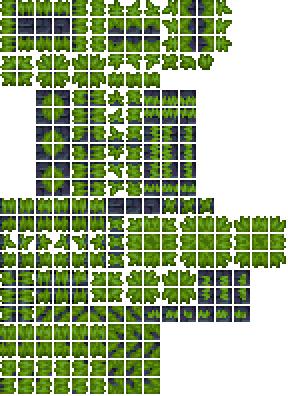
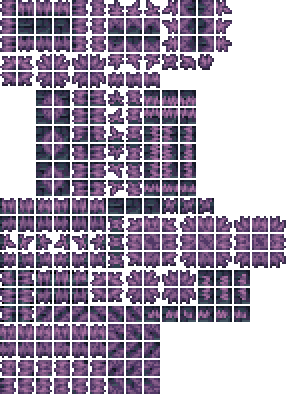
sanctuary grass

diff --git a/Items/Invidia/OvergrownEvostoneBrick.cs b/Items/Invidia/OvergrownEvostoneBrick.cs
@@ -3,6 +3,12 @@ using Terraria.ID;
 using Terraria.ModLoader;
 using Microsoft.Xna.Framework;
 using SOTS.Items.Invidia;
+using Terraria.ObjectData;
+using Terraria.DataStructures;
+using Terraria.Enums;
+using Microsoft.Xna.Framework.Graphics;
+using Terraria.Utilities;
+using SOTS.Dusts;
 
 namespace SOTS.Items.Invidia
 {
@@ -15,8 +21,9 @@ namespace SOTS.Items.Invidia
 		public override void SetDefaults()
         {
             Item.CloneDefaults(ItemID.StoneBlock);
-            Item.rare = ItemRarityID.Green;
+            Item.rare = ItemRarityID.LightPurple;
 			Item.createTile = ModContent.TileType<OvergrownEvostoneBrickTile>();
+			Item.height += 2;
 		}
 	}
 	public class OvergrownEvostoneBrickTile : ModTile
@@ -30,63 +37,63 @@ namespace SOTS.Items.Invidia
 			Main.tileMergeDirt[Type] = false;
 			Main.tileBlockLight[Type] = true;
 			Main.tileLighted[Type] = true;
-			AddMapEntry(new Color(91, 153, 59));
+			AddMapEntry(new Color(112, 82, 122));
 			MineResist = 1.5f;
-			HitSound = SoundID.Tink;
-			DustType = DustID.Grass;
+            HitSound = SoundID.Tink;
+			DustType = ModContent.DustType<InvidiaGrassDust>();
+        }
+		public override void RandomUpdate(int i, int j)
+		{
+			if (!Main.rand.NextBool(5))
+				if (!Main.tile[i, j - 1].HasTile)
+				{
+					Tile tile = Main.tile[i, j - 1];
+					WorldGen.PlaceTile(i, j - 1, ModContent.TileType<OvergrowthGrass>(), true, false, -1, Main.rand.Next(12));
+					tile.TileColor = Main.tile[i, j].TileColor;
+					NetMessage.SendTileSquare(-1, i, j - 1, 3, TileChangeType.None);
+				}
+				else if (Main.rand.NextBool(8))
+					GrowCurseVine(i, j);
+			base.RandomUpdate(i, j);
 		}
-		//public override void RandomUpdate(int i, int j)
-		//{
-		//	if (!Main.rand.NextBool(8))
-		//		if (!Main.tile[i, j - 1].HasTile)
-		//		{
-		//			Tile tile = Main.tile[i, j - 1];
-		//			WorldGen.PlaceTile(i, j - 1, ModContent.TileType<CursedGrass>(), true, false, -1, Main.rand.Next(12));
-		//			tile.TileColor = Main.tile[i, j].TileColor;
-		//			NetMessage.SendTileSquare(-1, i, j - 1, 3, TileChangeType.None);
-		//		}
-		//		else if (Main.rand.NextBool(8))
-		//			GrowCurseVine(i, j);
-		//	base.RandomUpdate(i, j);
-		//}
-		//public static void GrowCurseVine(int i, int j)
-		//{
-		//	if (!Main.tile[i, j + 1].HasTile && Main.tile[i, j+1].LiquidAmount == 0)
-		//	{
-		//		var flag9 = false;
-		//		for (var VineY = j; VineY > j - 10; VineY--)
-		//		{
-		//			if (Main.tile[i, VineY].BottomSlope)
-		//			{
-		//				flag9 = false;
-		//				break;
-		//			}
-		//			if (Main.tile[i, VineY].HasTile && !Main.tile[i, VineY].BottomSlope)
-		//			{
-		//				flag9 = true;
-		//				break;
-		//			}
-		//		}
+		public static void GrowCurseVine(int i, int j)
+		{
+			if (!Main.tile[i, j + 1].HasTile && Main.tile[i, j + 1].LiquidAmount == 0)
+			{
+				var flag9 = false;
+				for (var VineY = j; VineY > j - 10; VineY--)
+				{
+					if (Main.tile[i, VineY].BottomSlope)
+					{
+						flag9 = false;
+						break;
+					}
+					if (Main.tile[i, VineY].HasTile && !Main.tile[i, VineY].BottomSlope)
+					{
+						flag9 = true;
+						break;
+					}
+				}
 
-		//		if (flag9)
-		//		{
-		//			var num47 = i;
-		//			var num48 = j + 1;
-		//			if(Main.tile[num47, num48].LiquidAmount == 0)
-		//			{
-		//				Tile tile = Main.tile[num47, num48];
-		//				tile.TileType = (ushort)ModContent.TileType<CursedVine>();
-		//				tile.HasTile = true;
-		//				tile.TileColor = Main.tile[i, j].TileColor;
-		//				WorldGen.SquareTileFrame(num47, num48, true);
-		//				if (Main.netMode == NetmodeID.Server)
-		//				{
-		//					NetMessage.SendTileSquare(-1, num47, num48, 3, TileChangeType.None);
-		//				}
-		//			}
-		//		}
-		//	}
-		//}
+				if (flag9)
+				{
+					var num47 = i;
+					var num48 = j + 1;
+					if (Main.tile[num47, num48].LiquidAmount == 0)
+					{
+						Tile tile = Main.tile[num47, num48];
+						tile.TileType = (ushort)ModContent.TileType<OvergrowthVine>();
+						tile.HasTile = true;
+						tile.TileColor = Main.tile[i, j].TileColor;
+						WorldGen.SquareTileFrame(num47, num48, true);
+						if (Main.netMode == NetmodeID.Server)
+						{
+							NetMessage.SendTileSquare(-1, num47, num48, 3, TileChangeType.None);
+						}
+					}
+				}
+			}
+		}
 		public override bool CanExplode(int i, int j)
 		{
 			return true;
@@ -96,73 +103,127 @@ namespace SOTS.Items.Invidia
 			return true;
 		}
 	}
-	//public class CursedGrass : ModTile
-	//{
-	//	public override void SetStaticDefaults()
-	//	{
-	//		Main.tileFrameImportant[Type] = true;
-	//		Main.tileLavaDeath[Type] = true;
-	//		Main.tileCut[Type] = true;
-	//		Main.tileSolid[Type] = false;
-	//		Main.tileBlockLight[Type] = false;
-	//		Main.tileLighted[Type] = false;
-	//		AddMapEntry(new Color(50, 115, 29));
-	//		HitSound = SoundID.Grass;
-	//		DustType = DustID.Grass;
-	//		TileObjectData.newTile.CopyFrom(TileObjectData.Style1x1);
-	//		TileObjectData.newTile.AnchorBottom = new AnchorData(AnchorType.SolidTile, TileObjectData.newTile.Width, 0);
-	//		TileObjectData.newTile.CoordinateHeights = new int[] { 20 };
-	//		TileObjectData.newTile.StyleHorizontal = true;
-	//		TileObjectData.newTile.DrawYOffset = 2;
-	//		TileObjectData.addTile(Type);
-	//	}
- //       public override void NumDust(int i, int j, bool fail, ref int num)
- //       {
-	//		num--;
- //           base.NumDust(i, j, fail, ref num);
- //       }
-	//}
-	//public class CursedVine : ModTile
-	//{
-	//	public override void SetStaticDefaults()
-	//	{
-	//		Main.tileFrameImportant[Type] = false;
-	//		Main.tileLavaDeath[Type] = true;
-	//		Main.tileCut[Type] = true;
-	//		Main.tileSolid[Type] = false;
-	//		Main.tileBlockLight[Type] = false;
-	//		Main.tileLighted[Type] = false;
-	//		AddMapEntry(new Color(50, 115, 29));
-	//		HitSound = SoundID.Grass;
-	//		DustType = DustID.Grass;
-	//		TileObjectData.newTile.CopyFrom(TileObjectData.Style1x1); 
-	//		TileObjectData.newTile.AnchorTop = new AnchorData(AnchorType.AlternateTile, TileObjectData.newTile.Width, 0);
-	//		TileObjectData.newTile.AnchorBottom = AnchorData.Empty;
-	//		TileObjectData.newTile.Origin = new Point16(0, 0);
-	//		TileObjectData.newTile.CoordinateHeights = new[] { 16 };
-	//		TileObjectData.newTile.DrawYOffset = -2;
-	//		TileObjectData.newTile.AnchorAlternateTiles = new int[]
-	//		{
-	//			ModContent.TileType<OvergrownPyramidTile>(),
-	//			ModContent.TileType<CursedVine>(),
-	//		};
-	//		TileObjectData.addTile(Type);
-	//	}
-	//	public override void NumDust(int i, int j, bool fail, ref int num)
-	//	{
-	//		num--;
-	//		base.NumDust(i, j, fail, ref num);
-	//	}
- //       public override bool TileFrame(int i, int j, ref bool resetFrame, ref bool noBreak)
- //       {
-	//		if (!Main.tile[i, j - 1].HasTile || !(Main.tile[i, j - 1].TileType == ModContent.TileType<CursedVine>() || Main.tile[i, j - 1].TileType == ModContent.TileType<OvergrownPyramidTile>() || Main.tile[i, j - 1].TileType == ModContent.TileType<OvergrownPyramidTileSafe>()))
-	//			WorldGen.KillTile(i, j, false, false, false);
- //           return base.TileFrame(i, j, ref resetFrame, ref noBreak);
- //       }
- //       public override void RandomUpdate(int i, int j)
-	//	{
-	//		if(Main.rand.NextBool(8))
-	//			OvergrownPyramidTile.GrowCurseVine(i, j);
-	//	}
-	//}
+	public class OvergrowthGrass : ModTile
+	{
+		private Texture2D glow;
+        public override void SetStaticDefaults()
+		{
+			Main.tileFrameImportant[Type] = true;
+			Main.tileLavaDeath[Type] = true;
+			Main.tileCut[Type] = true;
+			Main.tileSolid[Type] = false;
+			Main.tileBlockLight[Type] = false;
+			Main.tileLighted[Type] = true;
+			AddMapEntry(new Color(112, 82, 122));
+			HitSound = SoundID.Grass;
+			DustType = ModContent.DustType<InvidiaGrassDust>();
+            TileObjectData.newTile.CopyFrom(TileObjectData.Style1x1);
+			TileObjectData.newTile.AnchorBottom = new AnchorData(AnchorType.SolidTile, TileObjectData.newTile.Width, 0);
+			TileObjectData.newTile.CoordinateHeights = [20];
+			TileObjectData.newTile.StyleHorizontal = true;
+			TileObjectData.newTile.DrawYOffset = 2;
+			TileObjectData.addTile(Type);
+		}
+		public override void NumDust(int i, int j, bool fail, ref int num)
+		{
+			num--;
+			base.NumDust(i, j, fail, ref num);
+		}
+        public override void PostDraw(int i, int j, SpriteBatch spriteBatch)
+        {
+            if (glow == null)
+                glow = ModContent.Request<Texture2D>("SOTS/Items/Invidia/OvergrowthGrassGlow", ReLogic.Content.AssetRequestMode.ImmediateLoad).Value;
+            int frameX = Main.tile[i, j].TileFrameX / 18;
+			if(frameX >= 5 || frameX <= 8)
+			{
+				for(int a = 0; a < 6; a ++)
+				{
+                    SOTSTile.DrawSlopedGlowMask(i, j, Type, glow, new Color(60, 50, 50, 0), new Vector2(2, 0).RotatedBy(MathHelper.ToRadians(a * 60 + SOTSWorld.GlobalCounter)));
+                }
+				SOTSTile.DrawSlopedGlowMask(i, j, Type, glow, Color.White, Vector2.Zero);
+            }
+        }
+        public override void ModifyLight(int i, int j, ref float r, ref float g, ref float b)
+        {
+            int frameX = Main.tile[i, j].TileFrameX / 18;
+            if (frameX >= 5 || frameX <= 8)
+			{
+				r = .5f;
+				g = .2f;
+				b = .25f;
+			}
+        }
+    }
+	public class OvergrowthVine : ModTile
+	{
+		private Texture2D glow;
+		public override void SetStaticDefaults()
+        {
+			Main.tileFrameImportant[Type] = false;
+			Main.tileLavaDeath[Type] = true;
+			Main.tileCut[Type] = true;
+			Main.tileSolid[Type] = false;
+			Main.tileBlockLight[Type] = false;
+			Main.tileLighted[Type] = true;
+			AddMapEntry(new Color(112, 82, 122));
+			HitSound = SoundID.Grass;
+			DustType = ModContent.DustType<InvidiaGrassDust>();
+			TileObjectData.newTile.CopyFrom(TileObjectData.Style1x1);
+			TileObjectData.newTile.AnchorTop = new AnchorData(AnchorType.AlternateTile, TileObjectData.newTile.Width, 0);
+			TileObjectData.newTile.AnchorBottom = AnchorData.Empty;
+			TileObjectData.newTile.Origin = new Point16(0, 0);
+			TileObjectData.newTile.CoordinateHeights = [16];
+			TileObjectData.newTile.DrawYOffset = -2;
+			TileObjectData.newTile.AnchorAlternateTiles =
+            [
+                ModContent.TileType<OvergrownEvostoneBrickTile>(),
+				ModContent.TileType<OvergrowthVine>(),
+			];
+			TileObjectData.addTile(Type);
+		}
+		public override void NumDust(int i, int j, bool fail, ref int num)
+		{
+			num--;
+			base.NumDust(i, j, fail, ref num);
+		}
+		public override bool TileFrame(int i, int j, ref bool resetFrame, ref bool noBreak)
+		{
+			if (!Main.tile[i, j - 1].HasTile || !(Main.tile[i, j - 1].TileType == ModContent.TileType<OvergrowthVine>() || Main.tile[i, j - 1].TileType == ModContent.TileType<OvergrownEvostoneBrickTile>()))
+				WorldGen.KillTile(i, j, false, false, false);
+			return base.TileFrame(i, j, ref resetFrame, ref noBreak);
+		}
+		public override void RandomUpdate(int i, int j)
+		{
+			if (Main.rand.NextBool(5))
+                OvergrownEvostoneBrickTile.GrowCurseVine(i, j);
+        }
+        public override void PostDraw(int i, int j, SpriteBatch spriteBatch)
+        {
+            if (glow == null)
+                glow = ModContent.Request<Texture2D>("SOTS/Items/Invidia/OvergrowthVineGlow", ReLogic.Content.AssetRequestMode.ImmediateLoad).Value;
+            {
+                for (int a = 0; a < 6; a++)
+                {
+                    SOTSTile.DrawSlopedGlowMask(i, j, Type, glow, new Color(60, 50, 50, 0), new Vector2(2, 0).RotatedBy(MathHelper.ToRadians(a * 60 + SOTSWorld.GlobalCounter)));
+                }
+				SOTSTile.DrawSlopedGlowMask(i, j, Type, glow, Color.White, Vector2.Zero);
+            }
+        }
+		public bool IsGlowingTile(int i, int j)
+		{
+            int frameX = Main.tile[i, j].TileFrameX / 18;
+            int frameY = Main.tile[i, j].TileFrameY / 18;
+			return (frameY == 0 && (frameX == 9 || frameX == 12)) ||
+                (frameY == 1 && (frameX == 3 || frameX == 8)) ||
+                (frameY == 2 && (frameX == 0 || frameX == 3 || frameX == 4 || frameX == 5) || frameX == 8 || frameX == 10 || frameX == 11) ||
+                (frameY == 3 && (frameX == 8 || frameX == 11)) ||
+                (frameY == 4 && (frameX == 4 || frameX == 5 || frameX == 8));
+        }
+        public override void ModifyLight(int i, int j, ref float r, ref float g, ref float b)
+        {
+            r = .5f;
+            g = .2f;
+            b = .25f;
+        }
+    }
 }

diff --git a/Biomes/SanctuaryBiome.cs b/Biomes/SanctuaryBiome.cs
@@ -23,7 +23,7 @@ namespace SOTS.Biomes
 		public override string MapBackground => BackgroundPath;
 		public override bool IsBiomeActive(Player player)
 		{
-			return player.ZoneUnderworldHeight && SOTSWorld.SanctuaryBiome >= 50;
+			return (player.ZoneUnderworldHeight || player.Center.Y > (Main.maxTilesY - 250) * 16) && SOTSWorld.SanctuaryBiome >= 50;
 		}
         public override void OnInBiome(Player player)
         {

diff --git a/Dusts/SootDust.cs b/Dusts/SootDust.cs
@@ -21,4 +21,5 @@ namespace SOTS.Dusts
     public class FamishedDustCorruption : BasicDust { }
     public class FamishedDustCrimson : BasicDust { }
     public class EvostoneDust : BasicDust { }
+    public class InvidiaGrassDust : BasicDust { }
 }
